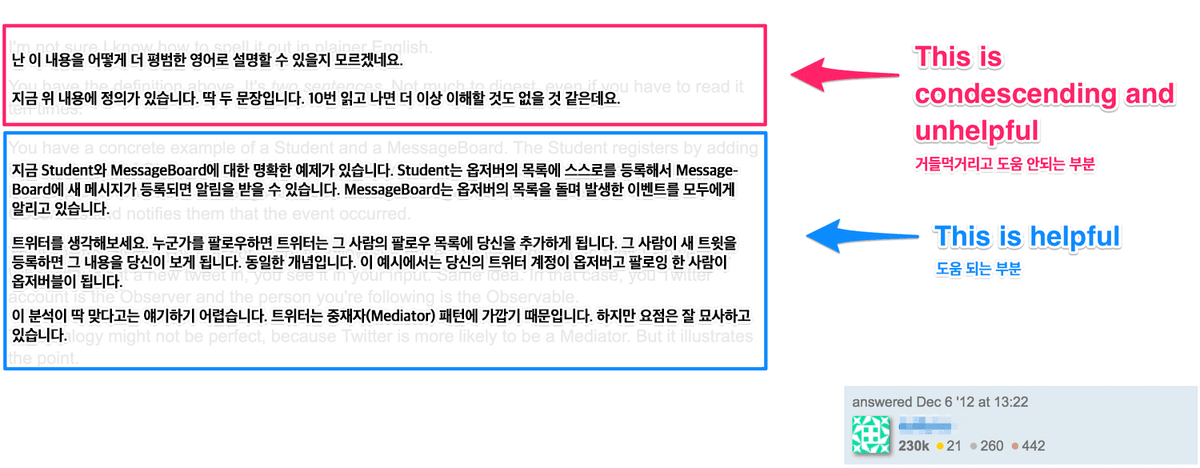
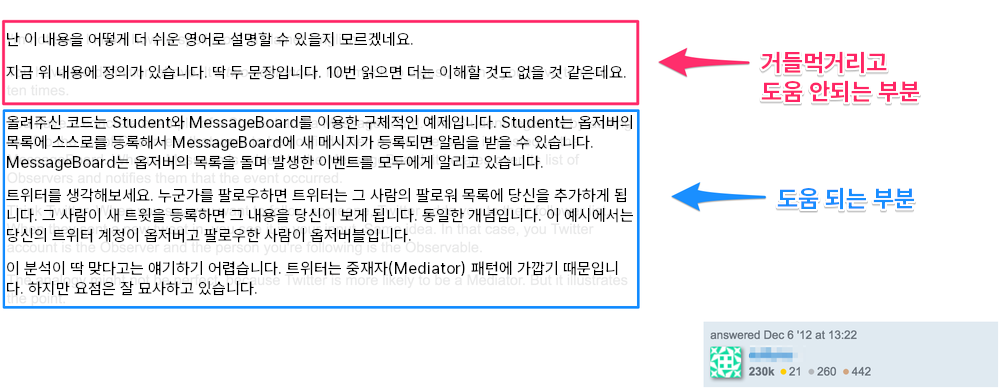
📝 Edit tech-has-a-toxic-tone-problem-let-s-fix-it: revise translation

diff --git a/_posts/2023-05-21-tech-has-a-toxic-tone-problem-let-s-fix-it.md b/_posts/2023-05-21-tech-has-a-toxic-tone-problem-let-s-fix-it.md
@@ -1,14 +1,14 @@
 ---
 layout: post
 title: "기술 업계의 독성 말투 문제, 고칩시다! (임시 업로드)"
-edited_at: 2023-11-25
+edited_at: 2025-01-24
 tags:
 - 문화
 - 번역
 - 임시
 ---
 
-*이 글은 April Wensel님의 [Tech has a Toxic Tone Problem — Let's Fix It!](https://compassionatecoding.com/blog/2016/8/25/tech-has-a-toxic-tone-problemlets-fix-it/)의 [edykim님 번역본](https://edykim.com/ko/post/tech-has-a-toxic-tone-problem-lets-fix-it/)을 수정한 번역본으로, edykim님의 사정상 원본에 반영되기 전까지 임시로 잇창명 개발 블로그에 게시합니다. 역시 잇창명의 사정상 이미지 내용은 번역하지 못했고, 대신 바로 아래에 바뀔 내용을 부연 설명합니다. edykim님의 블로그에 반영되면 이 글은 삭제한 뒤 원본 링크만 남길 예정입니다.*
+*이 글은 April Wensel님의 [Tech has a Toxic Tone Problem — Let's Fix It!](https://compassionatecoding.com/blog/2016/8/25/tech-has-a-toxic-tone-problemlets-fix-it/)의 [edykim님 번역본](https://edykim.com/ko/post/tech-has-a-toxic-tone-problem-lets-fix-it/)을 수정한 번역본으로, edykim님의 사정상 원본에 반영되기 전까지 임시로 잇창명 개발 블로그에 게시합니다. edykim님의 블로그에 반영되면 이 글은 삭제한 뒤 원본 링크만 남길 예정입니다.*
 
 *원본 글을 작성해 주신 April Wensel님과 해당 글을 번역해 주시고 번역 개선을 흔쾌히 허락해 주신 edykim님께 감사드립니다.*
 
@@ -38,17 +38,9 @@ tags:
 
 또한 많은 엔지니어가 마케팅, 영업, 제품, 고객 응대 직군에게, 그리고 이들에 대해 말하는 방식에서도 이를 알 수 있습니다. 특히 이들을 "비개발자(non-technical)"라고 부르면서 이들의 의견을 묵살할 때 더 잘 드러나며, 이는 제가 이 단어를 [아예 사용하지 말아야 한다고 생각하는 이유](https://compassionatecoding.com/blog/2019/4/17/if-you-can-use-a-fork-youre-technical)이기도 합니다.
 
-이런 거들먹거리는 태도는 항상 노골적으로 드러나지 않습니다. 다음 예제는 조금 교묘합니다. 누군가 [스택오버플로우에 남긴 질문](http://stackoverflow.com/q/13744450)인데 온라인에서 한참 검색하기도 했지만, 이해에 어려움이 있어서 *옵저버*와 *옵저버블*의 차이점이 무엇인지 물어봤습니다. 다음 답변은 100회 이상의 투표를 받은 답변입니다.
+이런 거들먹거리는 태도는 항상 노골적으로 드러나지 않습니다. 다음 예제는 조금 교묘합니다. 누군가 [스택오버플로우에 남긴 질문](http://stackoverflow.com/q/13744450)인데 온라인에서 한참 검색하기도 했지만, 이해에 어려움이 있어서 *옵저버*와 *옵저버블*의 차이점이 무엇인지 물어봤습니다. 다음 답변은 100회 이상의 최다 추천을 받은 답변입니다.
 
 ![거들먹거리고 도움 안되는 부분: 난 이 내용을 어떻게 더 쉬운 영어로 설명할 수 있을지 모르겠네요. 지금 위 내용에 정의가 있습니다. 딱 두 문장입니다. 10번 읽고 나면 더 이상 이해할 것도 없을 것 같은데요. 도움 되는 부분: 올려주신 코드는 Student와 MessageBoard를 이용한 구체적인 예제입니다. Student는 옵저버의 목록에 스스로를 등록해서 MessageBoard에 새 메시지가 등록되면 알림을 받을 수 있습니다. MessageBoard는 옵저버의 목록을 돌며 발생한 이벤트를 모두에게 알리고 있습니다. 트위터를 생각해보세요. 누군가를 팔로우하면 트위터는 그 사람의 팔로워 목록에 당신을 추가하게 됩니다. 그 사람이 새 트윗을 등록하면 그 내용을 당신이 보게 됩니다. 동일한 개념입니다. 이 예시에서는 당신의 트위터 계정이 옵저버고 팔로우한 사람이 옵저버블입니다. 이 분석이 딱 맞다고는 얘기하기 어렵습니다. 트위터는 중재자(Mediator) 패턴에 가깝기 때문입니다. 하지만 요점은 잘 묘사하고 있습니다.](/assets/post-images/toxic-tone-stack-overflow-answer.png)
-
-*역자 주: 위 이미지 텍스트의 변경점은 다음과 같습니다. 바뀐 부분을 **굵은** 글씨로 표시했습니다.*
-
-> 난 이 내용을 어떻게 더 **쉬운** 영어로 설명할 수 있을지 모르겠네요. (...)
->
-> **올려주신 코드는 Student와 MessageBoard를 이용한 구체적인 예제입니다.** Student는 옵저버의 목록에 스스로를 등록해서 (...)
->
-> 트위터를 생각해보세요. 누군가를 팔로우하면 트위터는 그 사람의 **팔로워** 목록에 당신을 추가하게 됩니다. (...) 이 예시에서는 당신의 트위터 계정이 옵저버고 **팔로우한** 사람이 옵저버블입니다. (...)
 
 읽기 좋게 거들먹거리는 부분을 가져왔습니다.
 
@@ -120,8 +112,6 @@ tags:
 기계적 말투는 피드백을 전달하는 과정에서도 문제입니다. 직접적인 피드백을 좋아한다고 여러 차례 언급한 디자이너와 함께 협업한다고 상상해봅시다. 이 디자이너는 지금 함께 작업하고 있는 반려동물 관리 앱의 가장 최근 목업(mockup)에 대해 조언을 구했습니다. 사용자의 반려동물 정보를 볼 수 있는 상세 페이지를 만들고 있었습니다. 이 목업에는 디자이너의 고양이, 닐에 대한 통계가 표시되고 있습니다. 페이지 상단에는 "나"라는 제목이 붙어 있습니다. 대략 다음 같은 화면이지만 훨씬 멋지다고 생각해봅시다.
 
 ![반려동물 관리 앱의 목업 이미지. '나'라는 제목 아래에 고양이 이미지와 꺾은선그래프가 있다.](/assets/post-images/toxic-tone-mockup.png)
-
-*역자 주: 위 이미지의 제목을 "당신"에서 "나"로 수정했으며, 아직 이미지에 반영되지 않았습니다.*
 
 이 디자인을 본 후에 시나리오를 논리적으로 생각해보면 이렇게 말하게 될 겁니다. "이 화면의 제목은 반려동물에 대한 하위 페이지라면 적어도 '내 고양이' 또는 '내 반려동물' 아니면 '닐'이 되어야 하지 않나요?" 논리적이기도 하고 제목이 페이지 가장 위에 있으니 가장 먼저 보이기도 하니 이런 지적을 가장 먼저 할 수 있을 겁니다.
 
@@ -229,4 +219,4 @@ tags:
 
 그러므로 진보적인 관점에서, 불필요하고 자아 중심적인 부정성 때문에 다른 누군가가 겁먹지 않도록 조심합시다.
 
-[^tn-egoless-programming]: [Egoless programming](https://en.wikipedia.org/wiki/Egoless_programming). 소프트웨어의 품질에 집중하기 위해 개인적인 요인을 최소화하는 프로그래밍 방법론.
+[^tn-egoless-programming]: (역자 주) [Egoless programming](https://en.wikipedia.org/wiki/Egoless_programming). 소프트웨어의 품질에 집중하기 위해 개인적인 요인을 최소화하는 프로그래밍 방법론.
